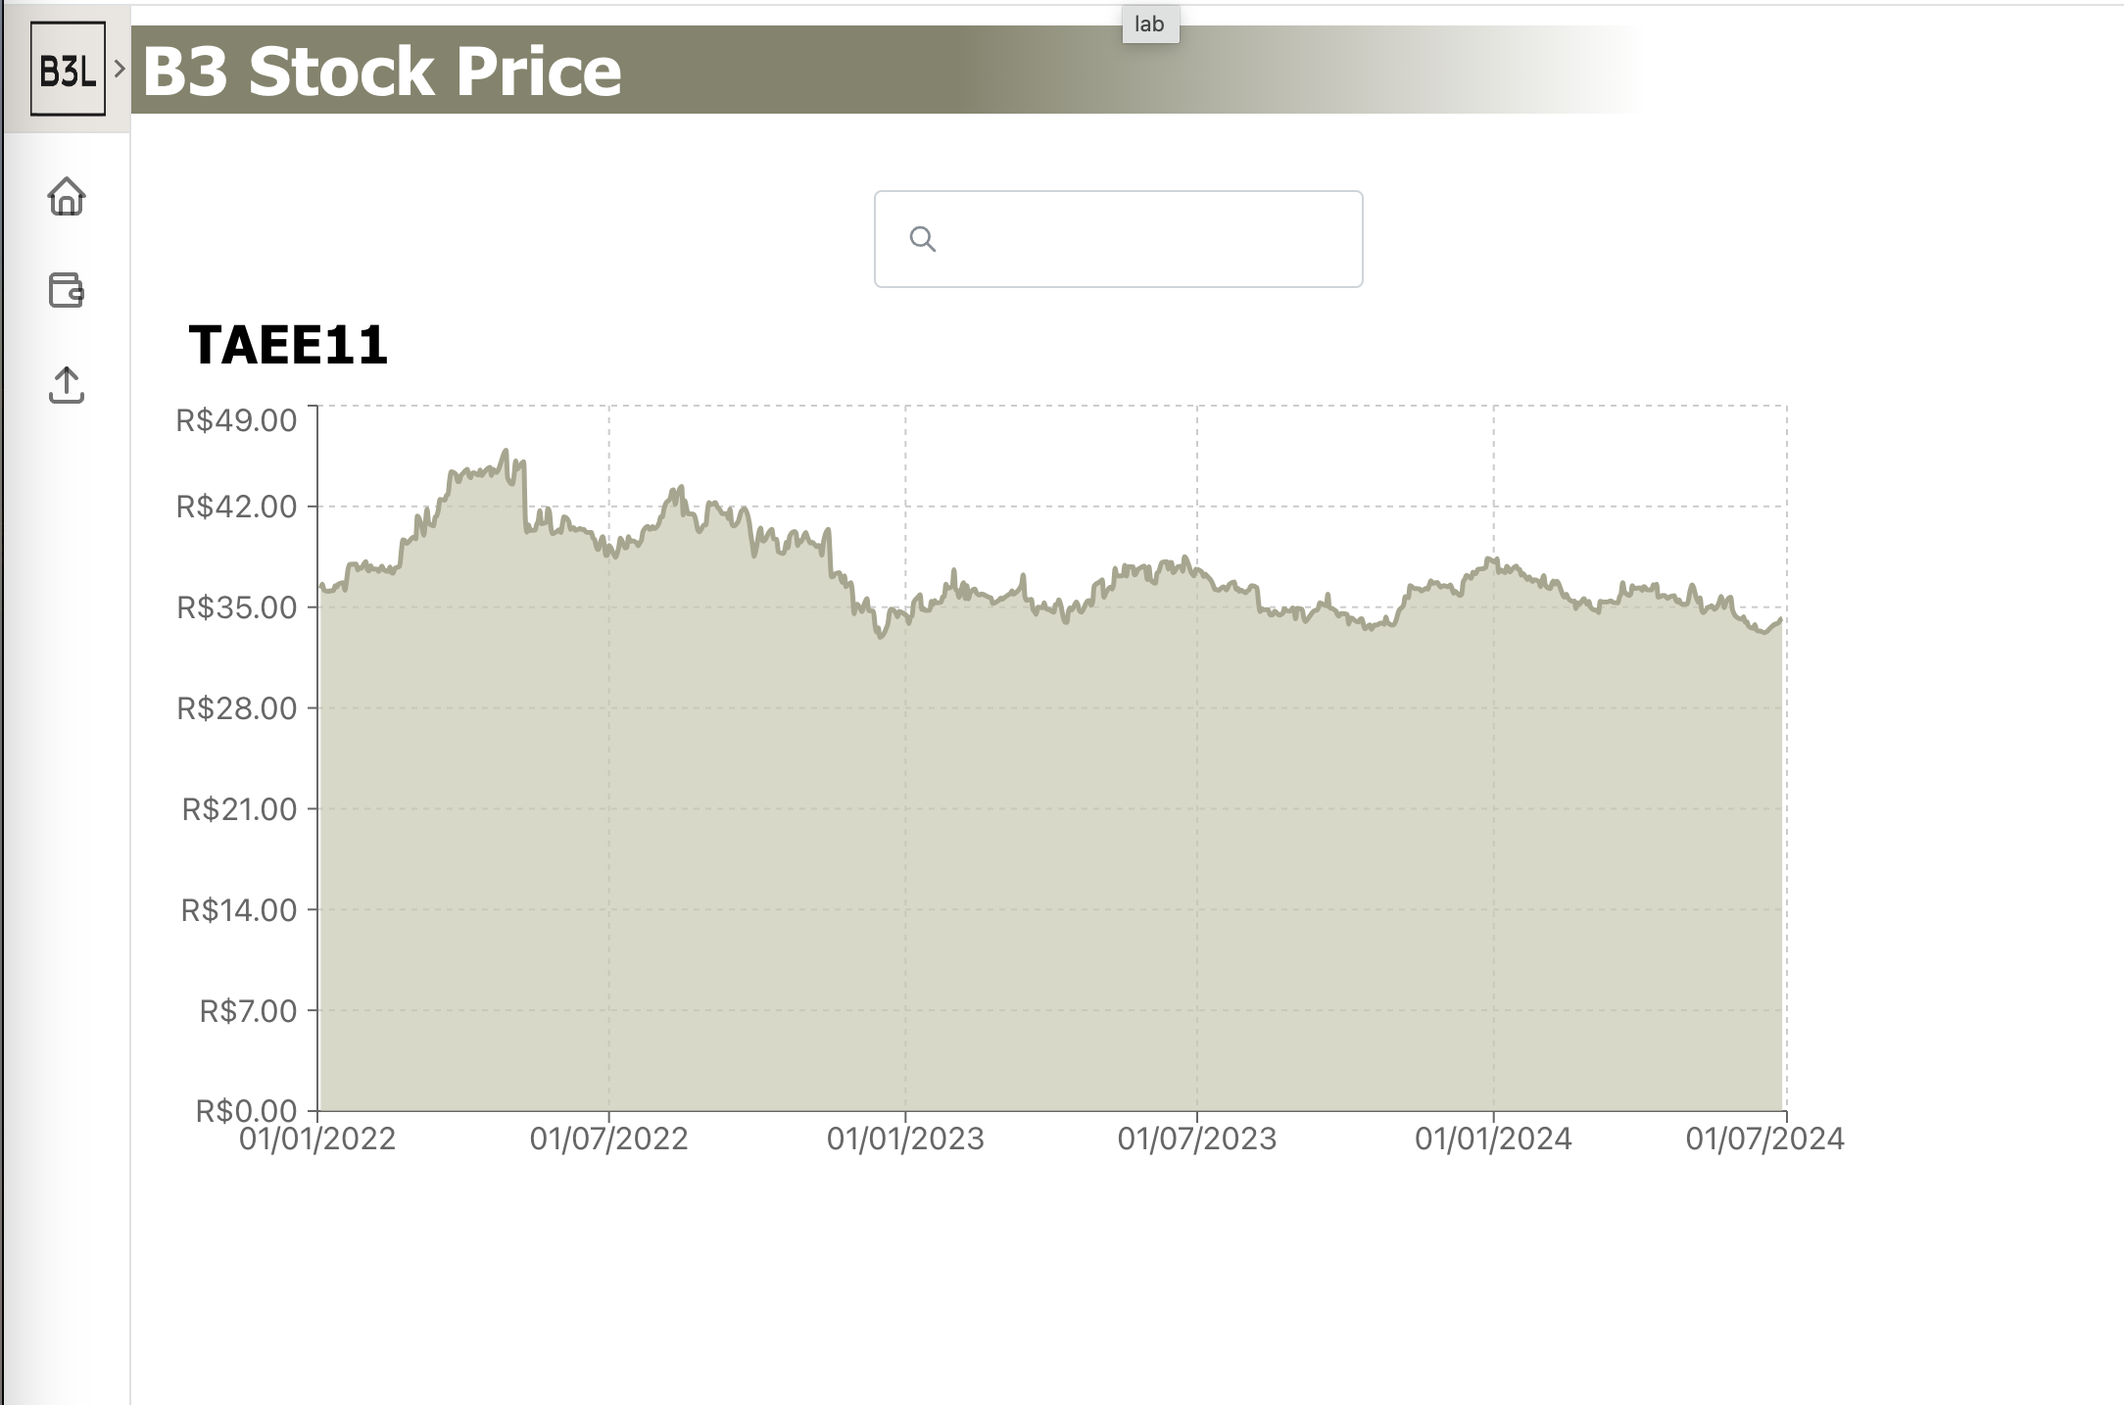
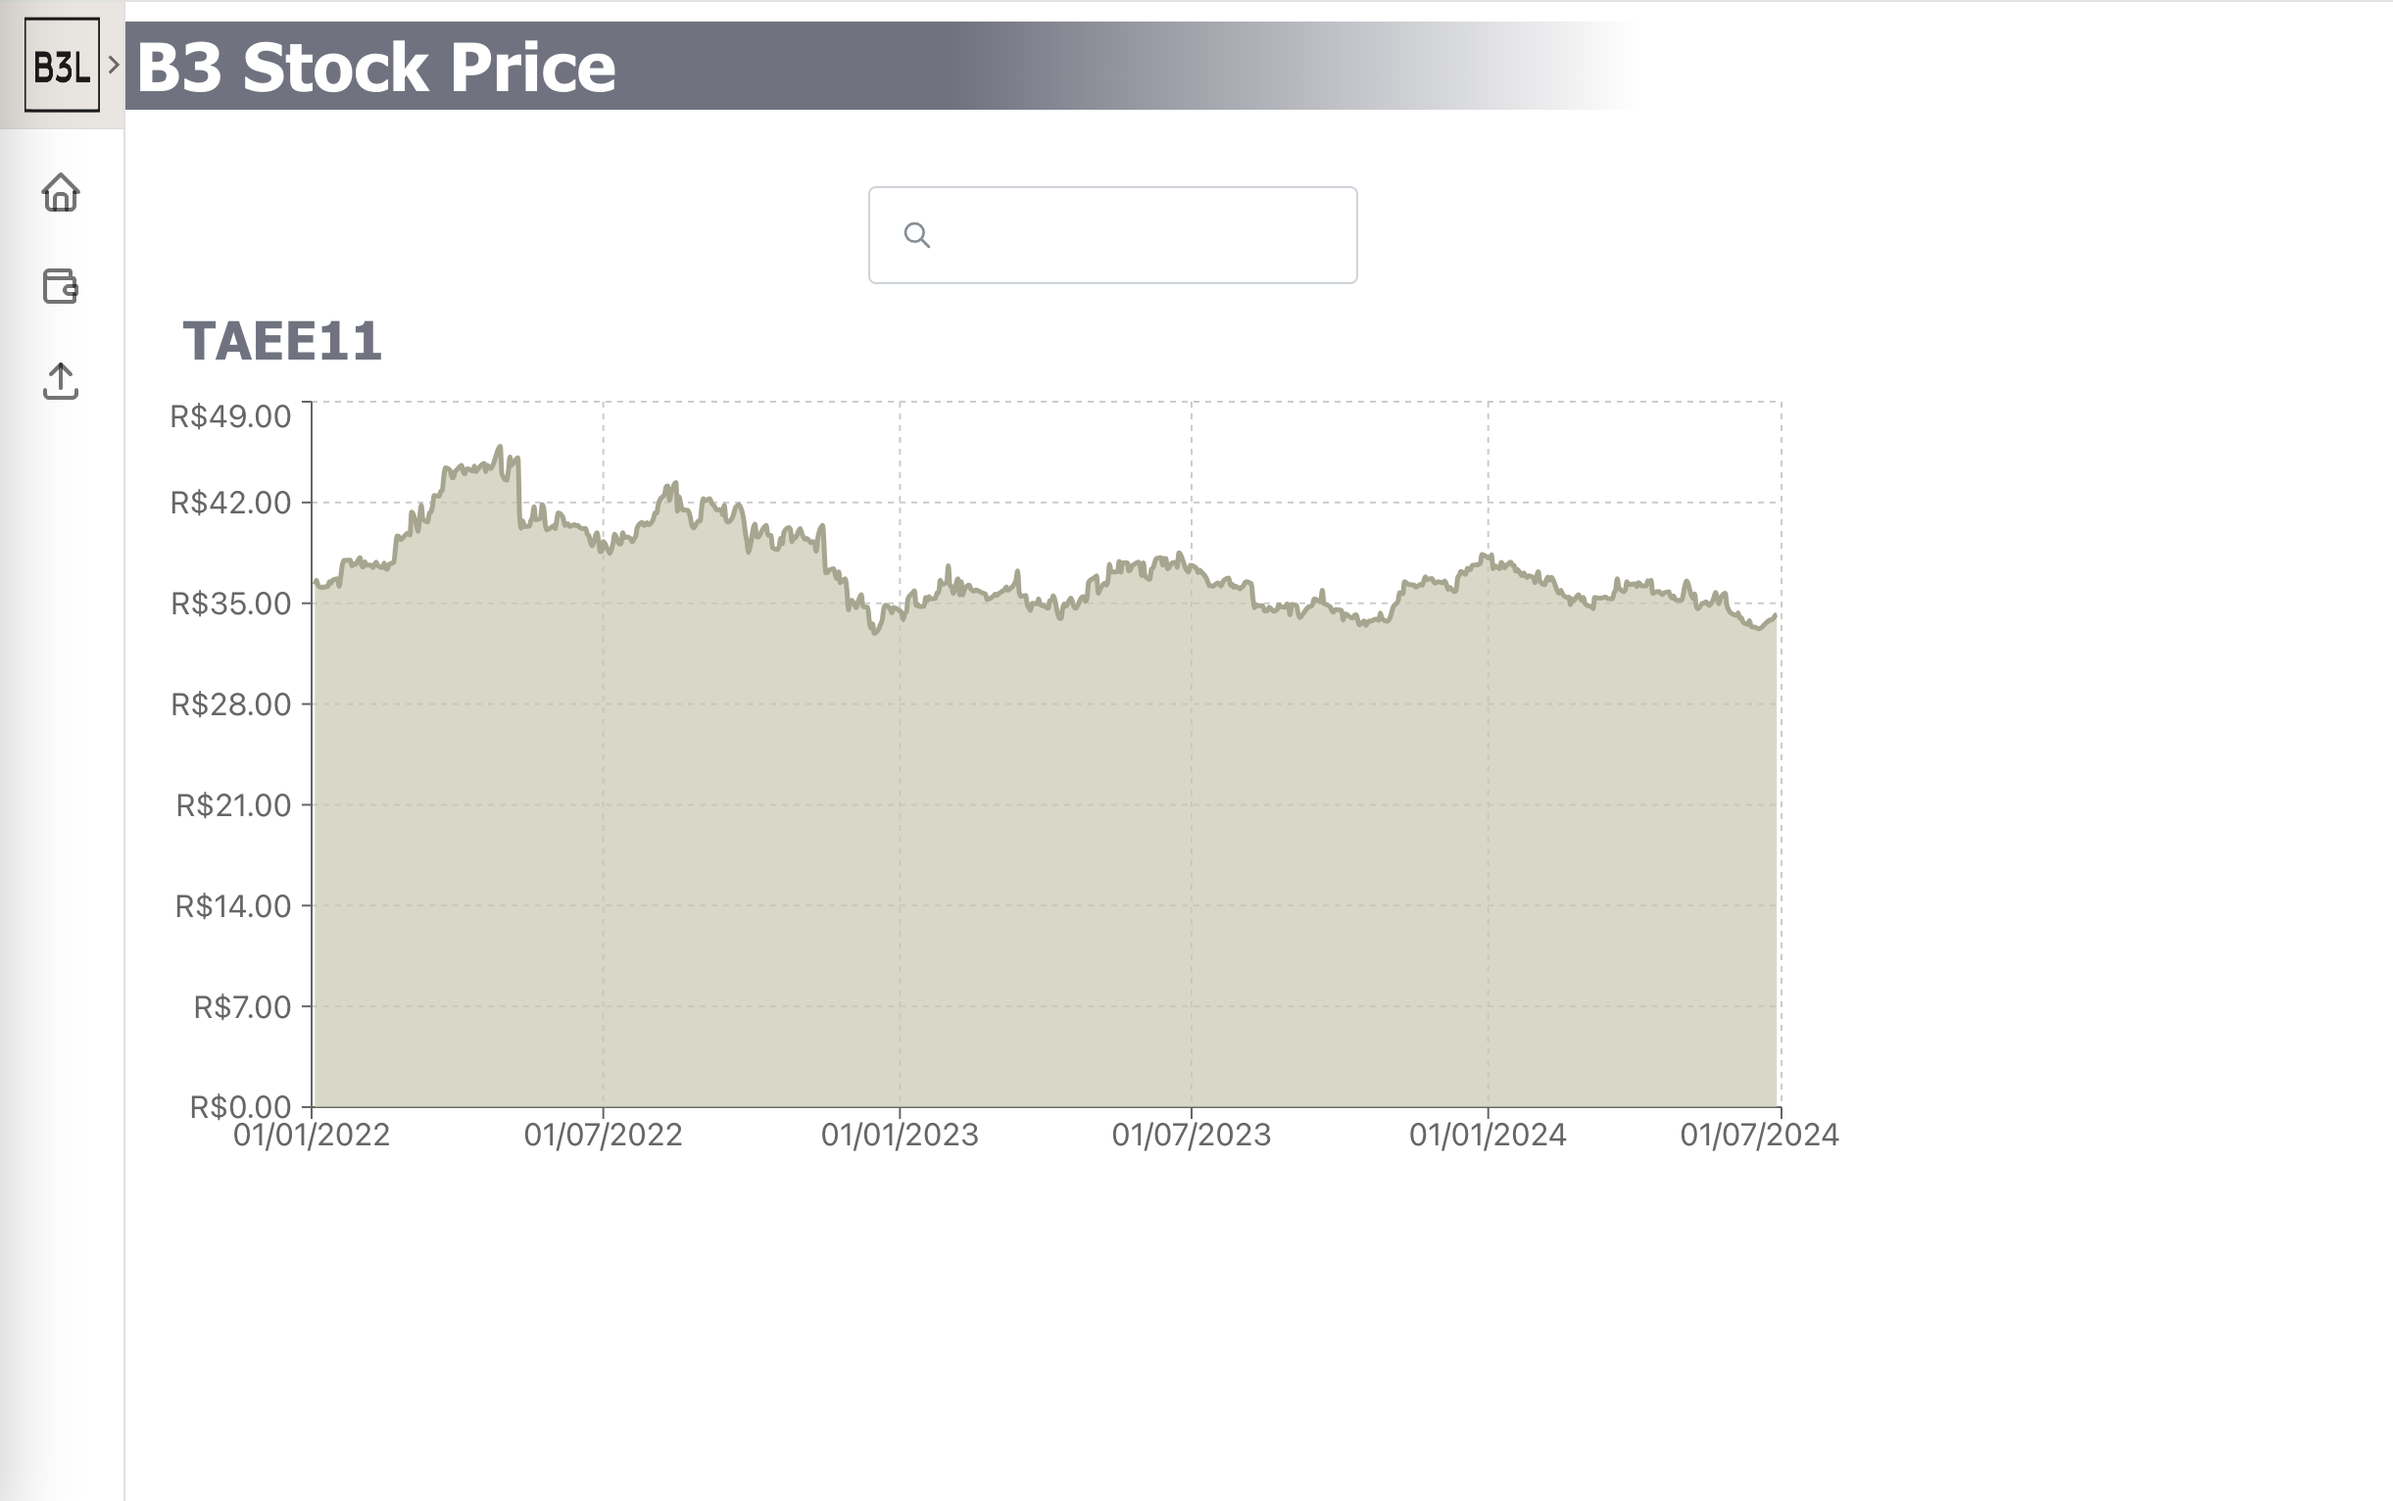
feature: add wallet pie chart

Changed region(s): [[0.0618, 0.2148, 0.8653, 0.8285], [0.0, 0.0, 0.7417, 0.2762]]

diff --git a/frontend/src/components/position-pie-chart/index.tsx b/frontend/src/components/position-pie-chart/index.tsx
@@ -1,0 +1,138 @@
+import { useCallback, useState } from "react";
+import { PieChart, Pie, Sector } from "recharts";
+import { data } from './data'
+
+export type DataItem = {
+  name: string;
+  uv: number;
+  pv: number;
+}
+
+function parseMoney(money: number): string {
+  let curr = "R$"
+  return curr + addDots(money.toFixed(2).replace(".", ","))
+}
+
+function addDots(val: string): string {
+  let ret = ""
+  let parts = val.split(",")
+  let intPart = parts[0]
+  let decimalPart = parts[1]
+  let pos = 1
+  for (let i = intPart.length - 1; i >= 0; i--) {
+      if ((pos%4) == 0) {
+          ret = "." + ret
+          pos++
+      }
+      
+      ret = intPart[i] + ret
+      pos++
+  }
+  return (ret + "," + decimalPart)
+}
+
+const renderActiveShape = (props: any) => {
+  console.log("PIE PROPS:", props)
+  const RADIAN = Math.PI / 180;
+  const {
+    cx,
+    cy,
+    midAngle,
+    innerRadius,
+    outerRadius,
+    startAngle,
+    endAngle,
+    fill,
+    payload,
+    percent,
+    value
+  } = props;
+  const sin = Math.sin(-RADIAN * midAngle);
+  const cos = Math.cos(-RADIAN * midAngle);
+  const sx = cx + (outerRadius + 10) * cos;
+  const sy = cy + (outerRadius + 10) * sin;
+  const mx = cx + (outerRadius + 30) * cos;
+  const my = cy + (outerRadius + 30) * sin;
+  const ex = mx + (cos >= 0 ? 1 : -1) * 22;
+  const ey = my;
+  const textAnchor = cos >= 0 ? "start" : "end";
+  
+  return (
+    <g>
+      {/* <text x={cx} y={cy} dy={8} textAnchor="middle" fill={fill}>
+        {payload.name}
+      </text> */}
+      <Sector
+        cx={cx}
+        cy={cy}
+        innerRadius={innerRadius}
+        outerRadius={outerRadius}
+        startAngle={startAngle}
+        endAngle={endAngle}
+        fill={fill}
+        stroke="white"
+      />
+      {/* <Sector
+        cx={cx}
+        cy={cy}
+        startAngle={startAngle}
+        endAngle={endAngle}
+        innerRadius={outerRadius + 6}
+        outerRadius={outerRadius + 10}
+        fill={fill}
+      /> */}
+      <path
+        d={`M${sx},${sy}L${mx},${my}L${ex},${ey}`}
+        stroke={fill}
+        fill="none"
+      />
+      <circle cx={ex} cy={ey} r={2} fill={fill} stroke="none" />
+      <text
+        x={ex + (cos >= 0 ? 1 : -1) * 12}
+        y={ey}
+        textAnchor={textAnchor}
+        fill="#6f7380"
+        fontWeight={600}
+      >{payload.name}</text>
+     
+      <text
+        x={ex + (cos >= 0 ? 1 : -1) * 12}
+        y={ey}
+        dy={18}
+        textAnchor={textAnchor}
+        fill="#999"
+      >
+       {parseMoney(value)}{`  (${(percent * 100).toFixed(2)}%)`}
+      </text>
+    </g>
+  );
+};
+
+export default function PositionPieChart() {
+  const [activeIndex, setActiveIndex] = useState(0);
+  const onPieEnter = useCallback(
+    (_, index) => {
+      setActiveIndex(index);
+    },
+    [setActiveIndex]
+  );
+
+  return (
+    <PieChart width={550} height={400}>
+      <Pie
+        activeIndex={[...Array(data.length).keys()]}
+        activeShape={renderActiveShape}
+        data={data}
+        cx={240}
+        cy={150}
+        innerRadius={60}
+        outerRadius={80}
+        fill="#84846c"
+        dataKey="uv"
+        paddingAngle={5}
+        //onMouseEnter={onPieEnter}
+        
+      />
+    </PieChart>
+  );
+}

diff --git a/frontend/src/routes/position.tsx b/frontend/src/routes/position.tsx
@@ -1,19 +1,28 @@
 import DrawerMenu from "../components/drawer-menu";
-import { MantineProvider } from '@mantine/core';
-import { Container, Box } from '@mantine/core';
+import { Grid, MantineProvider } from '@mantine/core';
+import { Container } from '@mantine/core';
 import HorizontalBarChart from "../components/horizontal-bar-chart";
 import PageHeader from "../components/page-header";
+import PositionPieChart from "../components/position-pie-chart";
 
 export default function PositionPage() {
     return (
         <MantineProvider defaultColorScheme="light">
-            <PageHeader title="B3 Wallet" />
-            <Container id="positionRoot" style={{padding:"0px"}}>
-                <Box id="scanner">
-                    <Box>
+            <PageHeader title="B3 Wallet (mock)" />
+            <Container id="positionRoot" style={{padding:"0px", width:"1300px", height:"500px"}}>
+            <div style={{width: "100%", height:"60px"}}>
+                <div style={{float:"left", height:"100%"}}>
+                    <span style={{fontFamily:"tahoma", fontSize:"27px", fontWeight:"bold", position: "relative", top:"20%", color:"#6f7380"}}>Stocks Position</span>
+                </div>
+            </div>
+                <Grid style={{width:"1200px"}}>
+                    <Grid.Col span={6}>
                         <HorizontalBarChart />
-                    </Box>
-                </Box>
+                    </Grid.Col>
+                    <Grid.Col span={6} style={{float:"left"}}>
+                        <PositionPieChart />
+                    </Grid.Col>
+                </Grid>
                 <DrawerMenu/>
             </Container>
         </MantineProvider>

diff --git a/frontend/src/components/page-header/index.tsx b/frontend/src/components/page-header/index.tsx
@@ -3,20 +3,20 @@ import { DEFAULT_THEME, Grid, MantineProvider, Title, getGradient, useMantineThe
 export interface HeaderProps {
     title: string
 }
-const gradient = getGradient({ deg: 90, from: "#84846c", to: "#ffffff" }, DEFAULT_THEME)
+const gradient = getGradient({ deg: 90, from: "#6f7380", to: "#ffffff" }, DEFAULT_THEME)
 export default function PageHeader(props: HeaderProps) {
     return (
         <MantineProvider defaultColorScheme="light">
             <Grid style={{margin:"0px",padding:"0px"}}>
                 <Grid.Col span={4} style={{paddingRight:"0px"}}>
-                    <div id="headerDiv" style={{width:"350px", height:"45px", backgroundColor:"#84846c", color:"#ffffff"}}>
+                    <div id="headerDiv" style={{width:"350px", height:"45px", backgroundColor:"#6f7380", color:"#ffffff"}}>
                         <Title order={1} style={{marginBottom:"40px", paddingLeft:"30px", float:"left", fontFamily:"tahoma", fontWeight:"600", }}>
                             {props.title}
                         </Title>
                     </div>
                 </Grid.Col>
                 <Grid.Col span={1} style={{paddingRight:"0px", paddingLeft:"0px"}}>
-                    <div id="spaceDiv" style={{width:"350px", height:"45px", backgroundColor:"#84846c", color:"#ffffff"}}>
+                    <div id="spaceDiv" style={{width:"350px", height:"45px", backgroundColor:"#6f7380", color:"#ffffff"}}>
                     </div>
                 </Grid.Col>
                 <Grid.Col span={6}>

diff --git a/frontend/src/components/file-scanner/index.tsx b/frontend/src/components/file-scanner/index.tsx
@@ -114,26 +114,29 @@ const handleUpdate = () => {
   let label = api.data && api.data.length > 0 ? "select a file to import" : "no files found"
   return (
     <Box>
-        <h2>{AVAILABLE_FILES_MESSAGE}</h2>
+        <h2 style={{fontSize:"27px",color:"#6f7380", fontFamily:"tahoma", textAlign:"left"}}>{AVAILABLE_FILES_MESSAGE}</h2>
         <Radio.Group
             id="radioGroupTAG"
             value={value}
             onChange={setValue}
             label={label}
             description=""
-            style={{margin:"auto", marginBottom:"15px"}}
+            labelProps={{style:{marginBottom:"10px"}}}
+            style={{margin:"auto", marginBottom:"15px", textAlign:"left"}}
         >
             <Grid>
                 {cards}
             </Grid>
         </Radio.Group>
       
+        <div style={{float:"left"}}>
         <Button className="buttons" onClick={handleUpdate}>
             Refresh
         </Button>
         <Button className="buttons" onClick={handleImport} style={{marginLeft:"15px"}}>
             Import
         </Button>
+        </div>
     </Box>
   );
 }

diff --git a/frontend/src/components/file-uploader/index.tsx b/frontend/src/components/file-uploader/index.tsx
@@ -80,7 +80,7 @@ const FileUploader = () => {
 
   return (
     <div style={{width:"500px"}}>
-      <h2>{UPLOAD_QUOTES_MESSAGE}</h2>
+      <h2 style={{fontSize:"27px",color:"#6f7380", fontFamily:"tahoma", textAlign:"left"}}>{UPLOAD_QUOTES_MESSAGE}</h2>
       
       <h3 style={{fontSize:fontSize}}>{progress > 0 && progress < 100 && <Loader color="blue" style={{marginRight:"20px"}}/>} {status}</h3>
       {progress > 0 && <Progress value={progress} style={{display:"block", marginBottom:"20px"}}/>}
@@ -94,7 +94,7 @@ const FileUploader = () => {
                 mt="md"
                 onChange={setSelectedFile}
                 value={selectedFile}
-                style={{marginTop:"0px",minWidth:"200px",maxWidth:"250px", maxHeight:"40px", margin: "auto"}}
+                style={{marginTop:"0px",minWidth:"200px",maxWidth:"250px", maxHeight:"40px", margin: "auto", marginLeft:"0px", marginRight:"10px"}}
             />
             <Button 
                 className="buttons"

diff --git a/frontend/src/routes/upload-page.tsx b/frontend/src/routes/upload-page.tsx
@@ -1,5 +1,5 @@
 import DrawerMenu from "../components/drawer-menu";
-import { Divider, MantineProvider, Title } from '@mantine/core';
+import { Divider, MantineProvider } from '@mantine/core';
 import { Container, Box } from '@mantine/core';
 import FileUploader from '../components/file-uploader';
 import FileScanner from "../components/file-scanner";
@@ -8,7 +8,7 @@ export default function UploadPage() {
     return (
         <MantineProvider defaultColorScheme="light">
             <PageHeader title='Upload & Import' />
-            <Container id="uploadRoot" style={{padding:"0px", marginTop:"50px"}}>
+            <Container id="uploadRoot" style={{padding:"0px", width:"1300px", height:"500px"}}>
                 <Box id="uploader" style={{marginBottom: "30px"}}>
                     <FileUploader />
                 </Box>

diff --git a/frontend/src/components/stock-chart/index.tsx b/frontend/src/components/stock-chart/index.tsx
@@ -35,8 +35,8 @@ export default function StockChart(props: StockChartProps) {
         <>
             {/* Selected Stock Name Label  */}
             <div style={{width: "100%", height:"60px"}}>
-                <div style={{float:"left", width:"20%", height:"100%", borderRadius:"50%", borderColor:"black"}}>
-                    <span style={{fontFamily:"tahoma", fontSize:"27px", fontWeight:"bold", position: "relative", top:"20%"}}>{props.stockName.toUpperCase()}</span>
+                <div style={{float:"left", width:"20%", height:"100%"}}>
+                    <span style={{color:"#6f7380", fontFamily:"tahoma", fontSize:"27px", fontWeight:"bold", position: "relative", top:"20%"}}>{props.stockName.toUpperCase()}</span>
                 </div>
             </div>
             {/* Chart */}

diff --git a/frontend/src/components/horizontal-bar-chart/index.tsx b/frontend/src/components/horizontal-bar-chart/index.tsx
@@ -58,7 +58,7 @@ export default function HorizontalBarChart() {
     <Box>
     <BarChart reverseStackOrder={true} width={600} height={350} data={orderedData} layout='horizontal'>
         <CartesianGrid strokeDasharray="3 3" />
-        <XAxis dataKey="name"/>
+        <XAxis dataKey="name" tick={{ fill: '#6f7380', fontFamily:"monospace", fontWeight:"bold" }}/>
         <YAxis yAxisId="0" dataKey='uv' width={100} tickMargin={5} ticks={getTicksFromValues(data)}tickFormatter={(value: any) => { return parseMoney(value)}} style={{fontFamily:"sans-serif"}}/>
         <Tooltip formatter={parseMoney} content={<CustomTooltip />}/>
         <Legend />

diff --git a/frontend/src/components/horizontal-bar-chart/CustomTooltip.tsx b/frontend/src/components/horizontal-bar-chart/CustomTooltip.tsx
@@ -34,8 +34,8 @@ function parseMoney(money: number): string {
 
 export default function CustomTooltip(props:any) {
   const { active, payload } = props;
-  let qtyIndex = 0
-  let valIndex = 1
+  let qtyIndex = 1
+  let valIndex = 0
   if (active) {
     return (
       <div className="area-chart-tooltip" style={style}>

diff --git a/frontend/src/components/position-pie-chart/data.ts b/frontend/src/components/position-pie-chart/data.ts
@@ -1,0 +1,6 @@
+import { DataItem } from './index'
+export const data: DataItem[] = [
+    { name: 'BBAS3', uv: 10850, pv: 374},
+    { name: 'HSLG11', uv: 4000, pv: 50},
+    { name: 'KNCR11', uv: 1560, pv: 10},
+  ];

diff --git a/frontend/src/components/drawer-menu/list.css b/frontend/src/components/drawer-menu/list.css
@@ -2,7 +2,7 @@
   color: #84846c;
 }
 #list li:hover div{
-  background-color: #b7b79e;
+  background-color: #6f7380;
   color: #ffffff;
   font-weight: bold;
 }

diff --git a/README.md b/README.md
@@ -96,6 +96,8 @@ Visit [http://localhost:9000](http://localhost:9000) after running  `make compos
 
 ![B3 Loader Frontend2](https://github.com/marcelovcpereira/b3loader/blob/master/b3loader-front2.png?raw=true)
 
+![B3 Loader Frontend3](https://github.com/marcelovcpereira/b3loader/blob/master/b3loader-front3.png?raw=true)
+
 ## InfluxDB Database
 
 The influxdb data can be visualized directly if you visit:
